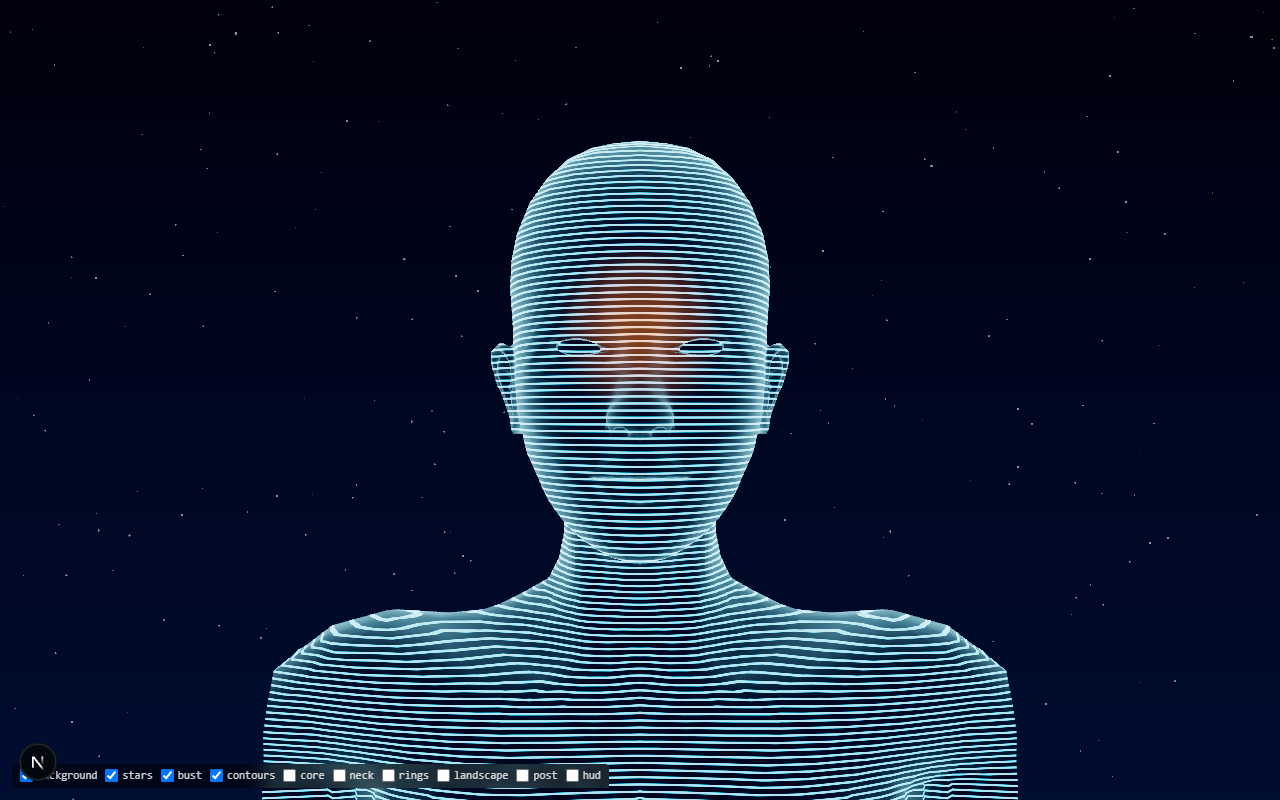
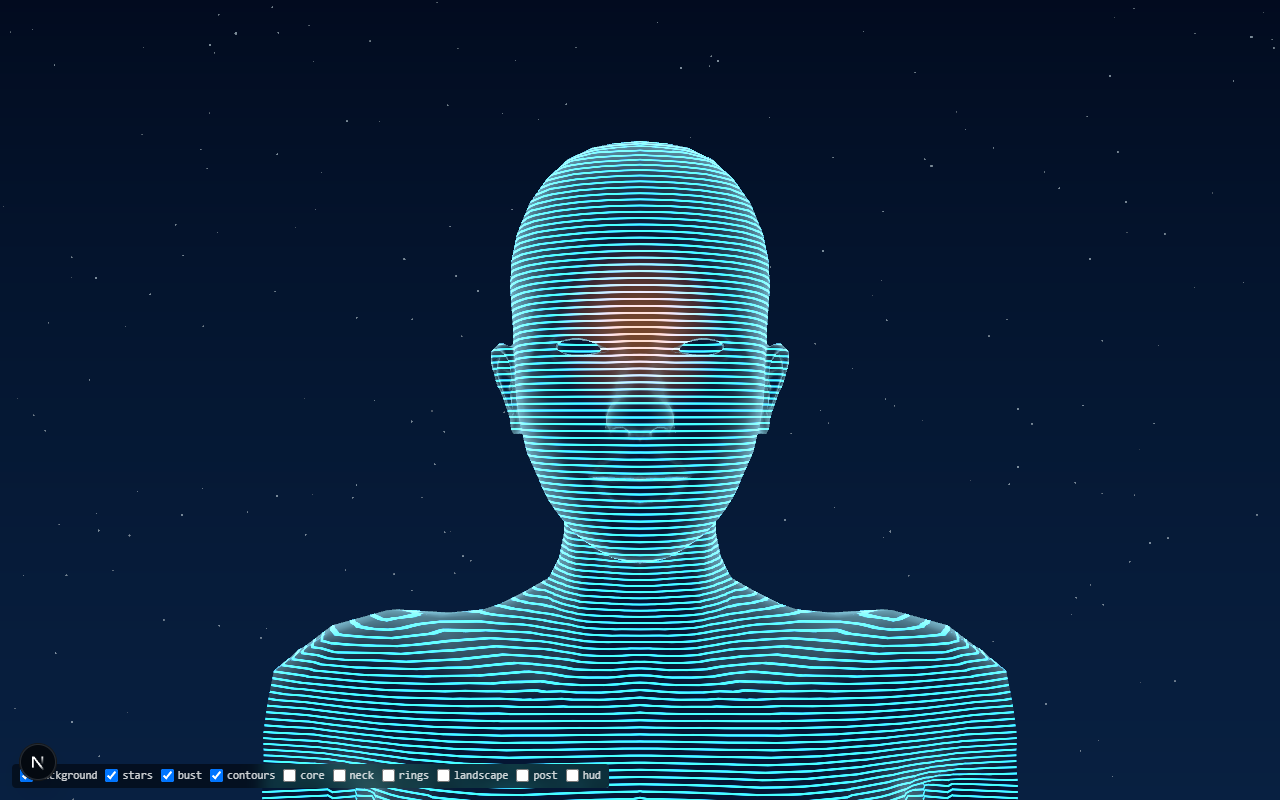
scene: phase 1 follow-up — tone mapping off, renderer factory guards
From the adversarial design review of the WebGPU/TSL adaptation:
- `flat` on the Canvas (NoToneMapping). The plan marks every visible
  material toneMapped:false and its post composer never tone-maps, so the
  palette is meant to reach the screen untouched; three/webgpu tone-maps the
  whole frame once at output (material.toneMapped is inert) and R3F
  overwrites renderer.toneMapping after the gl factory, so only `flat`
  realises that intent. Phases 1-4 re-screenshotted under it.
- Renderer factory: idempotent per canvas (a re-entrant R3F configure during
  the async init joins the in-flight promise instead of building a second
  renderer) and no store write before it returns (the backend is published
  on a macrotask), closing the canvas-isolation window from the ledger.

Changed region(s): [[0.1875, 0.1562, 0.8125, 1.0]]

diff --git a/apps/web/src/scene/SceneCanvas.tsx b/apps/web/src/scene/SceneCanvas.tsx
@@ -1,7 +1,8 @@
 "use client";
 import { Canvas, useFrame, useThree } from "@react-three/fiber";
 import { useCallback, useEffect, useMemo, useRef } from "react";
-import { ACESFilmicToneMapping, Color, SRGBColorSpace } from "three";
+import { Color } from "three";
+import type { WebGPURenderer } from "three/webgpu";
 import { FrameStats } from "@/avatar/telemetry/frametime";
 import { Background } from "./Background";
 import { Bust } from "./Bust";
@@ -59,6 +60,9 @@ function FrameTicker({ onReady }: { onReady?: () => void }) {
 
 const gradient = `linear-gradient(180deg, ${sceneConfig.palette.bgTop} 0%, ${sceneConfig.palette.bgBottom} 100%)`;
 
+/** one renderer per canvas element, shared by any re-entrant factory call (see makeRenderer) */
+const inflight = new WeakMap<HTMLCanvasElement, Promise<WebGPURenderer>>();
+
 /**
  * The "Neural Bust" scene (docs/plans/scene-plan.md): the plan's component tree inside one R3F
  * Canvas, each child gated by a layer flag, plus the DOM HUD beside it.
@@ -76,23 +80,34 @@ export function SceneCanvas({
 }: SceneCanvasProps) {
   const layers = useMemo<Layers>(() => ({ ...sceneConfig.layers, ...overrides }), [overrides]);
 
+  // The awaited factory is the window in which any re-render of this component makes R3F run it
+  // again (R3F configure re-enters while state.gl is unset). Two guards: the factory is
+  // idempotent per canvas (a second call joins the in-flight promise), and it writes nothing to
+  // React or the store before it returns (the backend is published on a macrotask, after R3F has
+  // stored the renderer).
   const makeRenderer = useCallback(
-    async (props: { canvas?: unknown }) => {
-      const { WebGPURenderer } = await import("three/webgpu");
-      const renderer = new WebGPURenderer({
-        canvas: props.canvas as HTMLCanvasElement,
-        antialias: true,
-        powerPreference: "high-performance",
-        forceWebGL: !!forceWebGL,
-      });
-      await renderer.init();
-      useSceneStore
-        .getState()
-        .setBackend("isWebGPUBackend" in renderer.backend ? "webgpu" : "webgl");
-      renderer.toneMapping = ACESFilmicToneMapping;
-      renderer.outputColorSpace = SRGBColorSpace;
-      renderer.setClearColor(new Color(sceneConfig.palette.bgBottom), 1);
-      return renderer;
+    (props: { canvas?: unknown }) => {
+      const canvas = props.canvas as HTMLCanvasElement;
+      const existing = inflight.get(canvas);
+      if (existing) return existing;
+      const promise = (async () => {
+        const { WebGPURenderer } = await import("three/webgpu");
+        // antialias: the scene pass inherits renderer.samples (4), which the fat lines and the
+        // thin rings need for smooth edges
+        const renderer = new WebGPURenderer({
+          canvas,
+          antialias: true,
+          powerPreference: "high-performance",
+          forceWebGL: !!forceWebGL,
+        });
+        await renderer.init();
+        renderer.setClearColor(new Color(sceneConfig.palette.bgBottom), 1);
+        const backend = "isWebGPUBackend" in renderer.backend ? "webgpu" : "webgl";
+        setTimeout(() => useSceneStore.getState().setBackend(backend), 0);
+        return renderer;
+      })();
+      inflight.set(canvas, promise);
+      return promise;
     },
     [forceWebGL],
   );
@@ -104,7 +119,11 @@ export function SceneCanvas({
       data-scene="canvas"
       style={{ position: "relative", overflow: "hidden", background: gradient }}
     >
-      <Canvas dpr={[1, 2]} camera={{ position, fov, near, far }} gl={makeRenderer}>
+      {/* `flat` = NoToneMapping. The plan marks every visible material toneMapped:false and its
+          post composer never tone-maps, so its palette is meant to reach the screen untouched;
+          three/webgpu tone-maps the whole frame once at output (material.toneMapped is inert),
+          which only `flat` switches off. Colours still convert linear → sRGB. */}
+      <Canvas flat dpr={[1, 2]} camera={{ position, fov, near, far }} gl={makeRenderer}>
         <SceneCamera />
         {layers.background ? <Background /> : null}
         {layers.stars ? <Stars /> : null}
